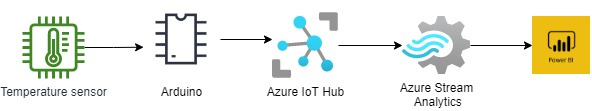
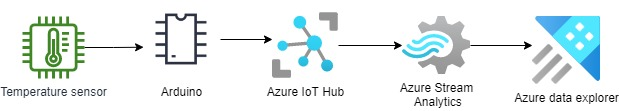
Replace power bi with azure data explorer

diff --git a/content/posts/arduino-nano-azure-iot-hub/index.md b/content/posts/arduino-nano-azure-iot-hub/index.md
@@ -17,7 +17,7 @@ tags:
 - iot
 ---
 
-In this series of tutorials, we will build a room temperature dashboard with the help of Arduino and Azure. For measuring the temperature, we will use a temperature sensor connected to the Arduino nano board. Then, Arduino will periodically send the temperature values to Azure IoT Hub using the azure sdk c for Arduino and the mqtt protocol. Finally, we will transform this stream of data using Azure stream analytics and create some nice dashboards using PowerBi, also deployed in Azure.
+In this series of tutorials, we will build a room temperature dashboard with the help of Arduino and Azure. For measuring the temperature, we will use a temperature sensor connected to the Arduino nano board. Then, Arduino will periodically send the temperature values to Azure IoT Hub using the azure sdk c for Arduino and the mqtt protocol. Finally, we will transform this stream of data using Azure stream analytics and create some nice dashboards using Azure Data Explorer, also deployed in Azure.
 
 We will start with only one temperature sensor to simplify the process, later I will add also a light sensor to have more data to play with, but feel free to adapt the code to add more/new sensors. Or even use some mocked data if you don't have any sensor available.\
 \
@@ -255,7 +255,7 @@ az iot hub monitor-events -n "${Replace by your hub name}" --login $CONNECTION_S
 
 ## Next steps
 
-At this point we have the raw data avaialable in azure IoT hub. Now we just need to parse it and start creating useful dashboards with it. This is the objective if the part 2 of this tutorial, we will use [azure stream analytics and powerBi][10] to parse and show the data collected by the Arduino sensors.
+At this point we have the raw data available in azure IoT hub. Now we just need to parse it and start creating useful dashboards with it. This is the objective if the part 2 of this tutorial, we will use azure stream analytics jobs and Azure data explorer to parse and show the data collected by the Arduino sensors.
 
 ## Common errors
 
